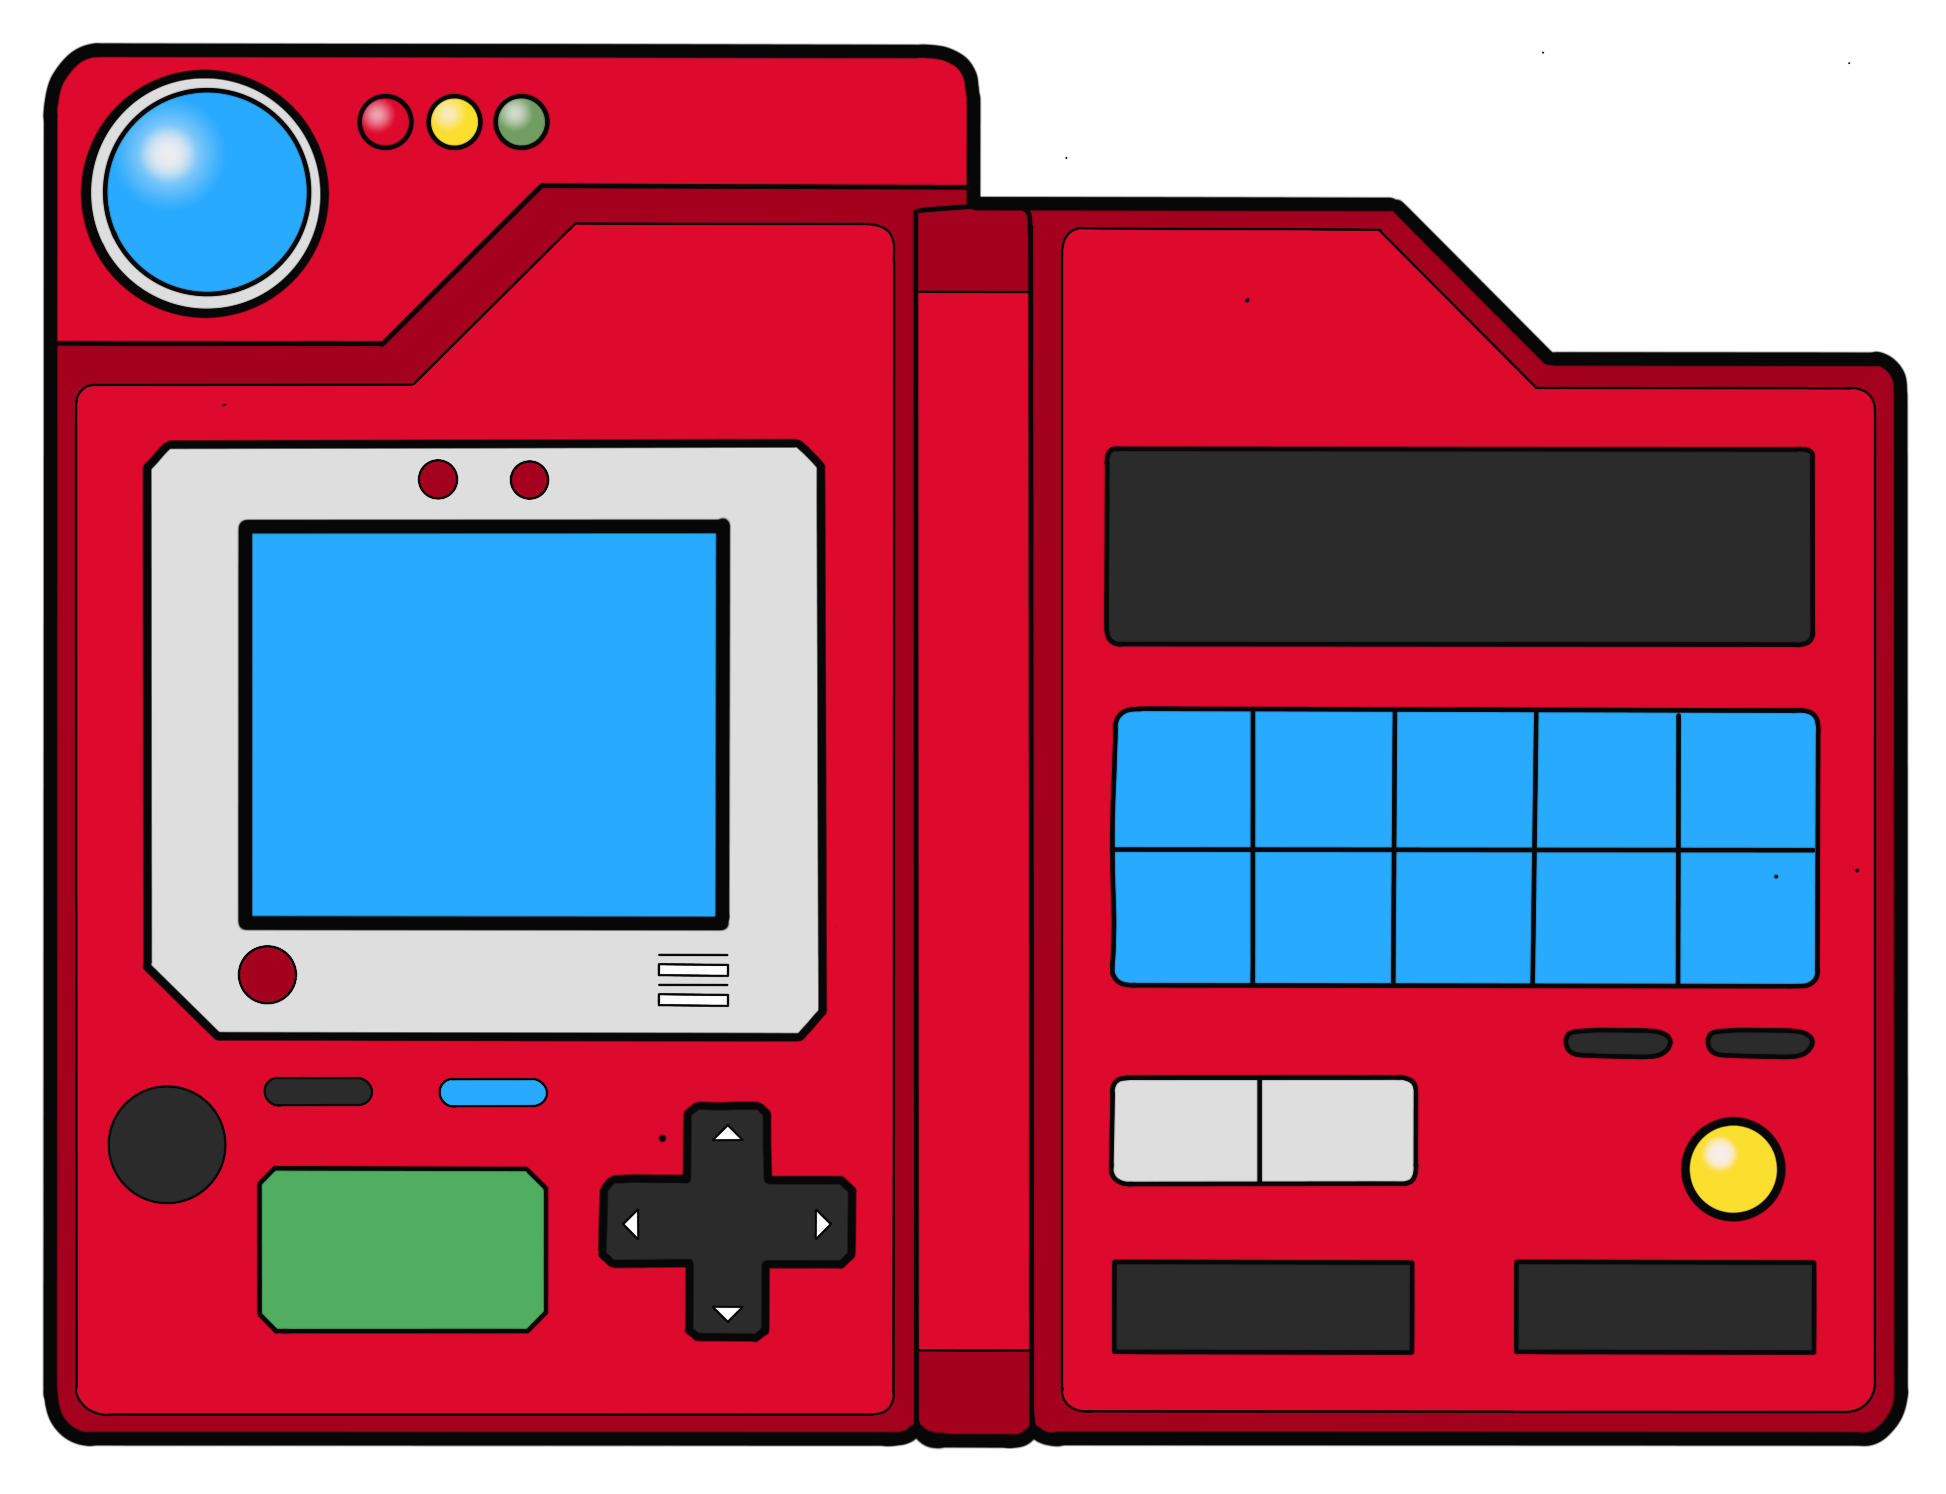
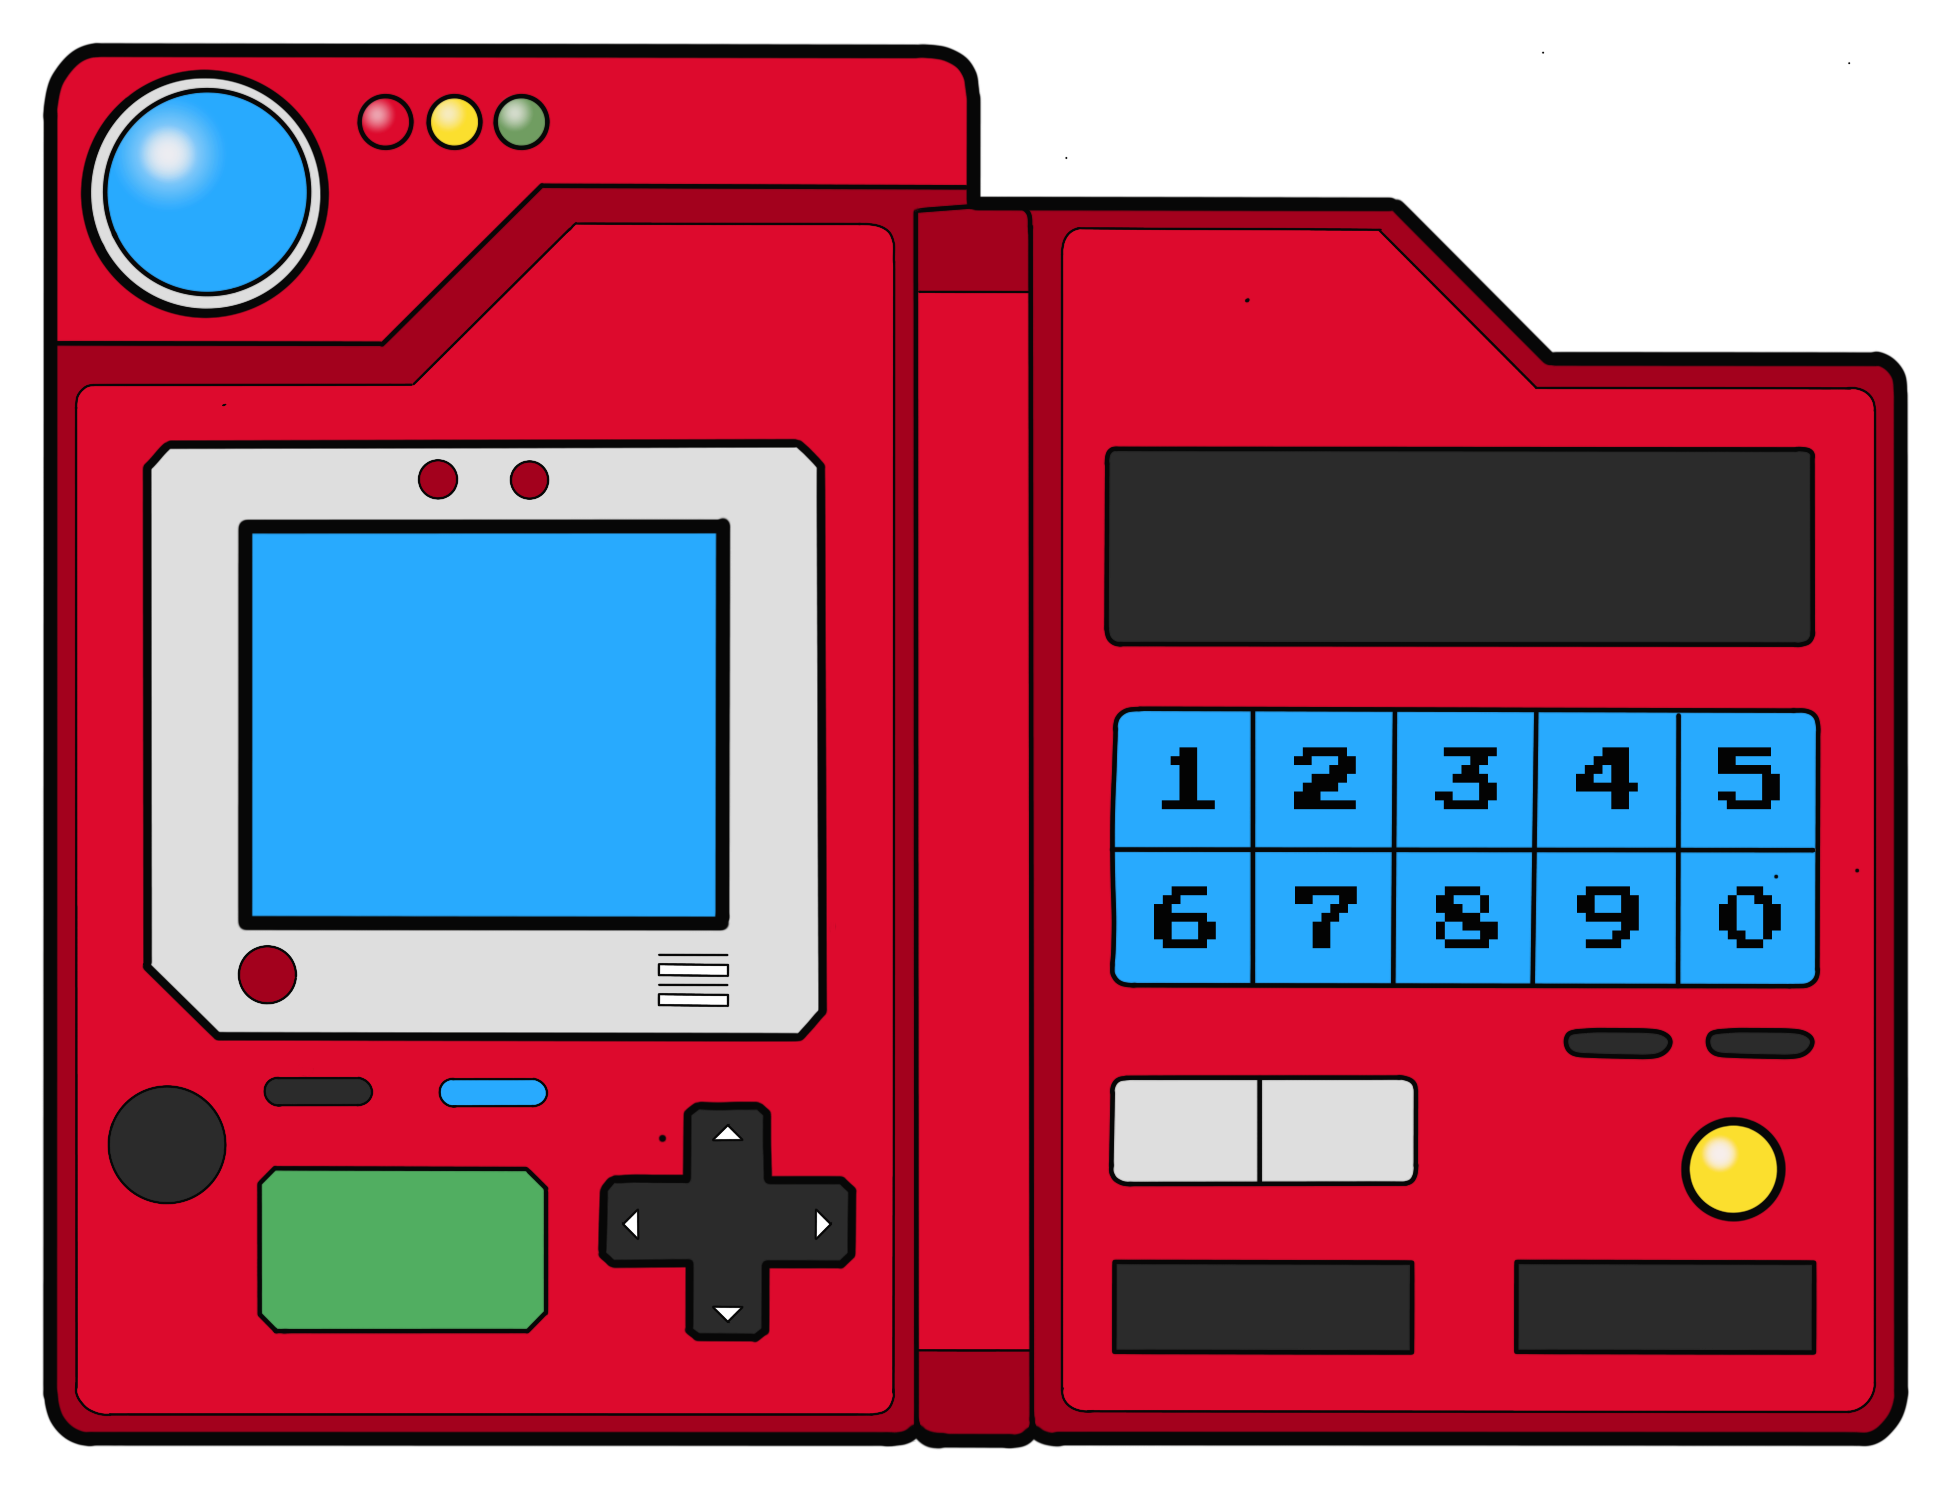
Interface grafica implementada

diff --git a/style.css b/style.css
@@ -15,14 +15,231 @@
     max-height: 97vh;
 }
 
-.yellow{
-    background: yellow;
-    width: 4%;
+.dex {
+    width: 10.5%;
+    height: 14%;
+    left: 5.6%;
+    bottom: 80%;
+    border-radius: 300%;
+    
+}
+
+.pokeSprite{
+    width: 23%;
+    height: 25%;
+    left: 13.4%;
+    bottom: 38.92%;
+
+
+}
+
+.normal {
+    width: 5.6%;
+    height: 2.1%;
+    left: 13.5%;
+    bottom: 25.8%;
+    border-radius: 15px;
+
+}
+
+.shiny {
+    width: 5.6%;
+    height: 2.1%;
+    left: 22.5%;
+    bottom: 25.8%;
+    border-radius: 15px;
+
+}
+
+.pokeName {
+    width: 13.5%;
     height: 4%;
-    left: 50%;
-    bottom: 50%;
+    left: 13.9%;
+    bottom: 16.92%;
+
+}
+
+.pokeNumber {
+    width: 13.5%;
+    height: 4%;
+    left: 13.9%;
+    bottom: 11.5%;
+
+
+}
+
+
+.display {
+    width: 35%;
+    height: 11.6%;
+    left: 57.4%;
+    bottom: 57.62%;
+
+}
+
+.one {
+    width: 7%;
+    height: 9.3%;
+    left: 57.4%;
+    bottom: 43.3%;
+
+}
+
+.two {
+    width: 7%;
+    height: 9.3%;
+    left: 64.5%;
+    bottom: 43.3%;
+
+
+}
+
+.three {
+    width: 7%;
+    height: 9.3%;
+    left: 71.75%;
+    bottom: 43.3%;
+
+
+}
+
+.four {
+    width: 7%;
+    height: 9.3%;
+    left: 79%;
+    bottom: 43.3%;
+
+
+}
+
+.five {
+    width: 7%;
+    height: 9.3%;
+    left: 86.3%;
+    bottom: 43.3%;
+
+
+}
+
+.six {
+    width: 7%;
+    height: 9%;
+    left: 57.4%;
+    bottom: 34%;
+
+
+}
+
+.seven {
+    width: 7%;
+    height: 9%;
+    left: 64.5%;
+    bottom: 34%;
     z-index: 3;
     position: absolute;
+    opacity: 0%;
+
+}
+
+.eight {
+    width: 7%;
+    height: 9%;
+    left: 71.75%;
+    bottom: 34%;
+
+
+}
+
+.nine {
+    width: 7%;
+    height: 9%;
+    left: 79%;
+    bottom: 34%;
+
+
+}
+
+.zero {
+    width: 7%;
+    height: 9%;
+    left: 86.3%;
+    bottom: 34%;
+
+
+}
+
+.submit {
+    width: 5.5%;
+    height: 7%;
+    left: 86.3%;
+    bottom: 18%;
+    opacity: 35%;
+    border-radius: 300%;
+
+}
+
+.reset {
+    width: 5.4%;
+    height: 2.1%;
+    left: 87.6%;
+    bottom: 28.9%;
+    border-radius: 15px;
+
+}
+
+.back {
+    width: 5.4%;
+    height: 2.1%;
+    left: 80.6%;
+    bottom: 28.9%;
+    border-radius: 15px;
+
+}
+
+.pokedex {
+    z-index: 3;
+    position: absolute;
+    opacity: 0%;
+
+}
+.pokedex:hover {
+    cursor: pointer;
+    background-color: black;
+    opacity: 35%;
+}
+
+.pokeWeight {
+ 
+    width: 7.6%;
+    height: 6.6%;
+    left: 57.1%;
+    bottom: 20.9%;
+
+}
+
+.pokeHeight {
+   
+    width: 7.6%;
+    height: 6.6%;
+    left: 65%;
+    bottom: 20.9%;
+
+}
+
+.pokeType1 {
+    background-color: blanchedalmond;
+    width: 15%;
+    height: 5.6%;
+    left: 57.4%;
+    bottom: 9.62%;
+}
+
+.pokeType2 {
+    background-color: blanchedalmond;
+    width: 15%;
+    height: 5.6%;
+    left: 77.98%;
+    bottom: 9.62%;
 }
 
 body{

diff --git a/index.html b/index.html
@@ -13,8 +13,47 @@
     <body>
         <div class="poke">
             <img class="pokedex-img" src="./assets/poke_open.PNG">
-            <div class="yellow"></div>
+
+            <div class="dex pokedex"></div>
+
+            <div class="pokeSprite pokedex"></div>
+
+            <button class="normal pokedex" type=button></button>
+            <button class="shiny pokedex" type=button></button>
+
+            <div class="pokeName pokedex"></div>
+            <div class="pokeNumber pokedex"></div>
+
+
+            <div class="display pokedex"></div>
+
+            <button class="one pokedex" type=button></button>
+            <button class="two pokedex" type=button></button>
+            <button class="three pokedex" type=button></button>
+            <button class="four pokedex" type=button></button>
+            <button class="five pokedex" type=button></button>
+            <button class="six pokedex" type=button></button>
+            <button class="seven pokedex" type=button></button>
+            <button class="eight pokedex" type=button></button>
+            <button class="nine pokedex" type=button></button>
+            <button class="zero pokedex" type=button></button>
+
+            <button class="submit pokedex" type=button></button>
+
+            <button class="reset pokedex" type=button></button>
+            <button class="back pokedex" type=button></button>
+
+            
+            <div class="pokeWeight pokedex"></div>
+            <div class="pokeHeight pokedex"></div>
+
+            <div class="pokeType1 pokedex"></div>
+            <div class="pokeType2 pokedex"></div>
+
         </div>
+
+
+        
 
         
        
